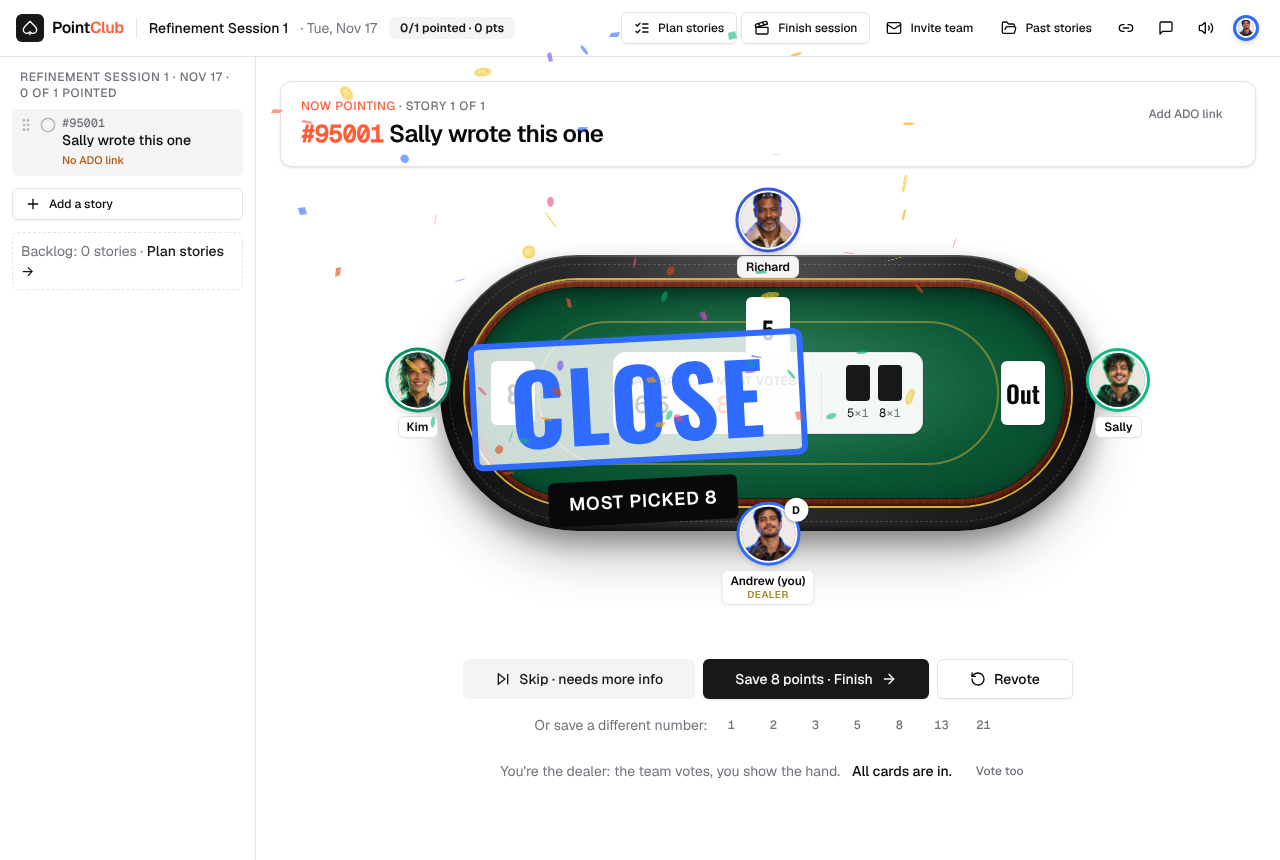
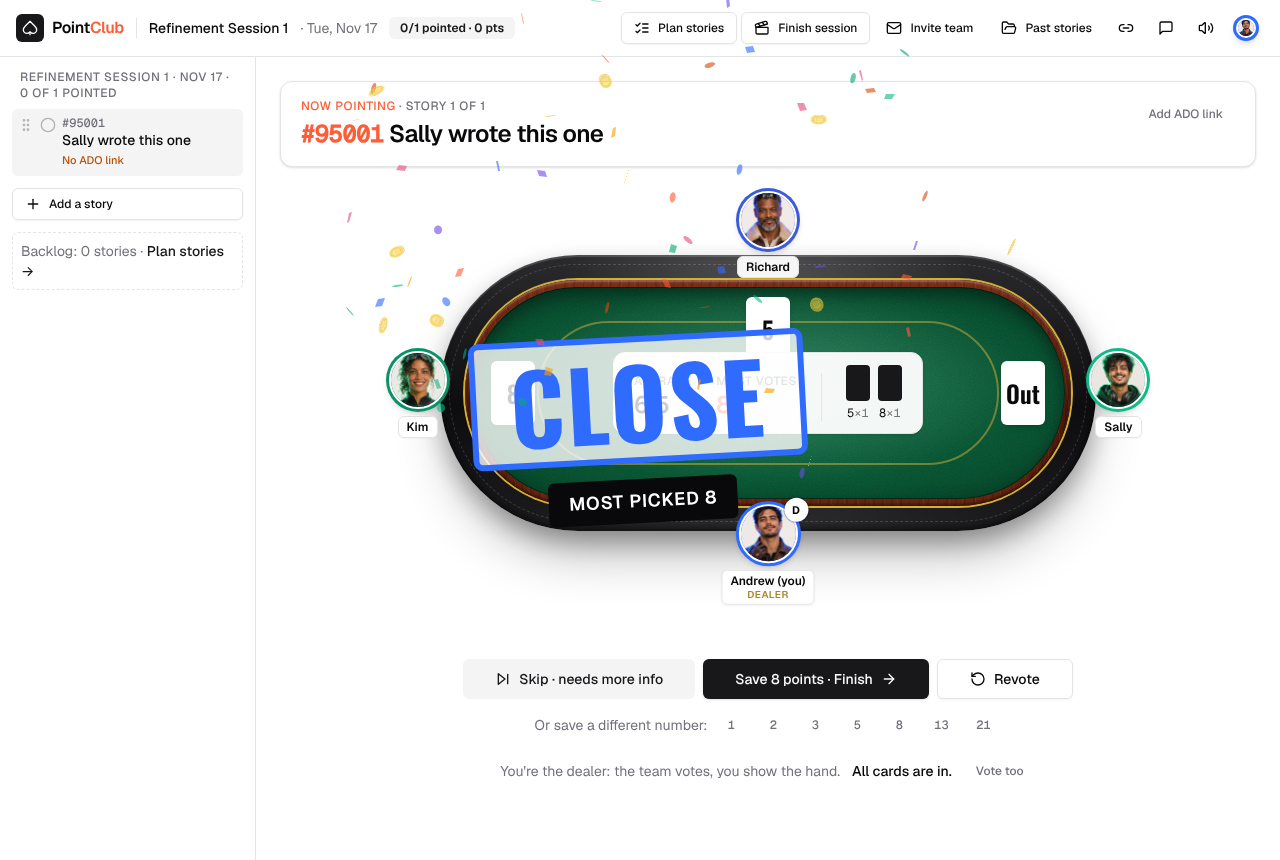
Walk-in music and Let's start; credits music ends with the credits
- Upbeat music while people arrive (stops after 60 seconds at most); the dealer clicks Let's start
  to fade it out on every screen and open the first story; cards appear after the start
- Each new refinement session starts with walk-in music again
- Credits music fades out as the 22-second credits finish

Claude-Session: https://claude.ai/code/session_01EANrJrMtc4n72hiZrseqCf

diff --git a/src/screens/Theater.tsx b/src/screens/Theater.tsx
@@ -19,7 +19,7 @@ import { SortableList } from '@/components/SortableList'
 import { NewSprint } from './NewSprint'
 import { Credits } from './Credits'
 import { CAST, castById } from '@/lib/cast'
-import { setVoicesEnabled, voice, voicesEnabled, votingMusic } from '@/lib/voice'
+import { resetWalkIn, setVoicesEnabled, voice, voicesEnabled, votingMusic, walkInMusic } from '@/lib/voice'
 import { blockbusterBurst, clearFx, sparkleBurst } from '@/lib/fx'
 import { isMuted, setMuted, sfx } from '@/lib/sounds'
 import { cn, sessionDate, sessionIso, sessionName } from '@/lib/utils'
@@ -62,7 +62,12 @@ export function Theater({ api, openVault, openPlanner, onLobby }: { api: RoomApi
   const voters = here.filter((m) => room?.hostVotes || m.id !== room?.hostId)
   const allIn = voters.length > 0 && voters.every((m) => roundVotes.some((v) => v.memberId === m.id))
   // Lounge music while people are voting; it fades out once every card is in or the hand is shown.
-  const votingNow = !!current && !current.points && !current.skipped && !room?.revealed && !allIn && me?.status === 'here'
+  // Before the dealer clicks "Let's start": walk-in music while people arrive (a session with points has begun).
+  const begun = !!activeSprint?.begunAt || lineup.some((s) => s.points)
+  useEffect(() => { resetWalkIn() }, [activeSprint?.id])
+  useEffect(() => { walkInMusic(!begun && me?.status === 'here') }, [begun, me?.status, activeSprint?.id])
+  useEffect(() => () => walkInMusic(false), [])
+  const votingNow = begun && !!current && !current.points && !current.skipped && !room?.revealed && !allIn && me?.status === 'here'
   useEffect(() => { votingMusic(votingNow) }, [votingNow])
   useEffect(() => () => votingMusic(false), [])
   const away = members.filter((m) => m.status === 'away')
@@ -224,7 +229,7 @@ export function Theater({ api, openVault, openPlanner, onLobby }: { api: RoomApi
             <Button variant="ghost" size="sm" onClick={openVault} title="Past stories (every session's stories and votes)"><FolderOpen /><span className="hidden lg:inline">Past stories</span></Button>
             <IconBtn tip={copied ? 'Copied!' : 'Copy room link'} onClick={copyLink}>{copied ? <Check /> : <Link2 />}</IconBtn>
             <IconBtn tip={voices ? 'Turn voice lines off' : 'Turn voice lines on'} onClick={() => { setVoicesEnabled(!voices); setVoices(!voices) }}>{voices ? <MessageSquare /> : <MessageSquareOff />}</IconBtn>
-            <IconBtn tip={muted ? 'Unmute' : 'Mute'} onClick={() => { setMuted(!muted); setMute(!muted); votingMusic(muted ? votingNow : false) }}>{muted ? <VolumeX /> : <Volume2 />}</IconBtn>
+            <IconBtn tip={muted ? 'Unmute' : 'Mute'} onClick={() => { setMuted(!muted); setMute(!muted); votingMusic(muted ? votingNow : false); walkInMusic(muted ? !begun : false) }}>{muted ? <VolumeX /> : <Volume2 />}</IconBtn>
             <IconBtn tip="My seat (lobby)" onClick={onLobby}>{me ? <Avatar character={me.character} name={me.name} size={26} /> : <UserRound />}</IconBtn>
           </div>
         </div>
@@ -286,6 +291,16 @@ export function Theater({ api, openVault, openPlanner, onLobby }: { api: RoomApi
 
         {/* Main */}
         <main className="flex-1 min-w-0 flex flex-col gap-4 p-6">
+          {!begun && (
+            <div className="flex items-center gap-4 rounded-xl border-2 border-primary/30 bg-primary/[0.06] px-5 py-4" data-testid="start-banner">
+              <div className="flex-1">
+                <div className="text-lg font-semibold">{activeSprint ? sessionName(activeSprint.name) : 'Refinement session'} · {sessionDate(activeSprint)}</div>
+                <div className="text-sm text-muted-foreground">{isHost ? 'Everyone here? Start when the team is seated.' : 'Grab a seat. The dealer will start in a moment.'}</div>
+              </div>
+              {isHost ? <Button size="lg" onClick={() => { walkInMusic(false); actions.beginSession() }} data-testid="lets-start">Let's start <ArrowRight /></Button>
+                : <span className="text-sm font-medium text-muted-foreground">Waiting for the dealer to start</span>}
+            </div>
+          )}
           <Card>
             <CardContent className="px-5 py-4 flex items-start gap-4">
               {current ? <>
@@ -364,7 +379,7 @@ export function Theater({ api, openVault, openPlanner, onLobby }: { api: RoomApi
               {isHost && nextUnpointed && <Button size="sm" onClick={() => actions.selectStory(nextUnpointed.id)}>Next story <ArrowRight /></Button>}
             </div>
           )}
-          {current && !current.points && !current.skipped && (
+          {begun && current && !current.points && !current.skipped && (
             <div className="flex flex-col items-center gap-3">
               {isHost ? (
                 <div className="flex flex-wrap gap-2 justify-center items-center">
@@ -399,7 +414,7 @@ export function Theater({ api, openVault, openPlanner, onLobby }: { api: RoomApi
           )}
 
           {/* Hand */}
-          {!current || current.points || current.skipped ? null : isDealer ? (
+          {!begun || !current || current.points || current.skipped ? null : isDealer ? (
             <div className="flex flex-wrap items-center justify-center gap-3 pb-4 text-sm text-muted-foreground" data-testid="dealer-panel">
               <span>You're the dealer: the team votes, you show the hand.</span>
               <span className="font-medium text-foreground">{allIn ? 'All cards are in.' : `${roundVotes.length} of ${voters.length} cards in. You can show the hand anytime; missing cards are left out.`}</span>

diff --git a/src/lib/voice.ts b/src/lib/voice.ts
@@ -52,16 +52,47 @@ export function votingMusic(on: boolean, volume = 0.18) {
 }
 
 /** Upbeat credits music. Returns a stop function that fades it out. Respects mute. */
-export function playMusic(name = 'credits', volume = 0.45): () => void {
+export function playMusic(name = 'credits', volume = 0.45, fadeAfterMs?: number): () => void {
   if (isMuted()) return () => {}
   const a = new Audio(`/sfx/sfx/${name}.mp3`)
+  ;(window as any).__creditsMusic = a
   a.volume = volume
   a.play().catch(() => {})
-  return () => {
-    const step = () => { if (a.volume > 0.05) { a.volume = Math.max(0, a.volume - 0.05); setTimeout(step, 60) } else { a.pause() } }
+  let fading = false
+  const stop = () => {
+    if (fading) return; fading = true
+    const step = () => { if (a.volume > 0.03) { a.volume = Math.max(0, a.volume - 0.03); setTimeout(step, 60) } else { a.pause() } }
     step()
   }
+  const t = fadeAfterMs ? setTimeout(stop, fadeAfterMs) : null
+  return () => { if (t) clearTimeout(t); stop() }
 }
+
+/** Upbeat walk-in music while people arrive, before the dealer clicks Let's start. Plays at most 60 seconds. */
+let walkIn: HTMLAudioElement | null = null
+let walkFade: ReturnType<typeof setInterval> | null = null
+let walkCap: ReturnType<typeof setTimeout> | null = null
+let walkDone = false // after the 60-second cap, stay quiet until the next session
+export function walkInMusic(on: boolean, volume = 0.3) {
+  if (on && (isMuted() || walkDone)) on = false
+  if (on && !walkIn) { walkIn = new Audio('/sfx/sfx/credits.mp3'); walkIn.loop = true; walkIn.volume = 0; (window as any).__walkInMusic = walkIn }
+  if (!walkIn) return
+  const a = walkIn
+  if (walkFade) clearInterval(walkFade)
+  if (on && a.paused) {
+    a.play().catch(() => {})
+    if (walkCap) clearTimeout(walkCap)
+    walkCap = setTimeout(() => { walkDone = true; walkInMusic(false) }, 60_000)
+  }
+  if (!on && walkCap) { clearTimeout(walkCap); walkCap = null }
+  walkFade = setInterval(() => {
+    const target = on ? volume : 0
+    a.volume = Math.abs(target - a.volume) < 0.02 ? target : Math.max(0, Math.min(1, a.volume + (target > a.volume ? 0.02 : -0.02)))
+    if (a.volume === target) { if (walkFade) clearInterval(walkFade); walkFade = null; if (!on) a.pause() }
+  }, 60)
+}
+/** A new session (next week) gets walk-in music again. */
+export function resetWalkIn() { walkDone = false }
 
 export const voice = {
   /** A short sound effect clip (chips, chaching, alarm, boom). */

diff --git a/src/lib/useRoom.ts b/src/lib/useRoom.ts
@@ -275,7 +275,14 @@ export function useRoom(roomId: string) {
       const missing = stories.filter((s) => !s.url)
       if (missing.length) await db.upsertStories(missing.map((s) => ({ ...s, url: buildAdoUrl(adoPattern, s.number) })))
     },
-    async renameSprint(p: Partial<Pick<Sprint, 'name' | 'title' | 'meetingDate'>>) { if (activeSprint) await db.upsertSprint({ ...activeSprint, ...p }) },
+    /** Dealer: "Let's start". Ends the walk-in music for everyone and opens the first story waiting to be pointed. */
+    async beginSession() {
+      if (!activeSprint) return
+      await db.upsertSprint({ ...activeSprint, begunAt: Date.now() })
+      const first = lineup.find(isOpen)
+      if (first && (!current || current.sprintId !== activeSprint.id)) await patchRoom({ currentStoryId: first.id, revealed: false, round: first.rounds })
+    },
+    async renameSprint(p: Partial<Pick<Sprint, 'name' | 'title' | 'meetingDate' | 'begunAt'>>) { if (activeSprint) await db.upsertSprint({ ...activeSprint, ...p }) },
     /** Finish this session. Unpointed stories go back to the top of the backlog, or into the Next session list. */
     async closeAndStartNext(name: string, title: string, carryTo: 'backlog' | 'next' = 'backlog', meetingDate: string | null = null) {
       if (!room) return

diff --git a/api/_core.ts b/api/_core.ts
@@ -10,7 +10,7 @@ const b = (name: string): Col => ({ name, type: 'bigint' })
 const TABLES = {
   rooms: [t('id'), t('name'), t('host_id'), t('active_sprint_id'), t('current_story_id'), { name: 'revealed', type: 'bool' }, i('round'), t('ado_pattern'), i('next_count'), { name: 'host_votes', type: 'bool' }],
   members: [t('id'), t('room_id'), t('name'), t('character'), t('status'), b('last_seen')],
-  sprints: [t('id'), t('room_id'), t('name'), t('title'), b('started_at'), b('closed_at'), t('meeting_date')],
+  sprints: [t('id'), t('room_id'), t('name'), t('title'), b('started_at'), b('closed_at'), t('meeting_date'), b('begun_at')],
   stories: [t('id'), t('room_id'), t('sprint_id'), t('number'), t('title'), t('url'), t('points'), t('outcome'), i('rounds'), i('order'), { name: 'skipped', type: 'bool' }, t('note')],
   votes: [t('id'), t('room_id'), t('story_id'), t('member_id'), i('round'), t('value')],
 } satisfies Record<string, Col[]>

diff --git a/src/screens/Credits.tsx b/src/screens/Credits.tsx
@@ -9,7 +9,7 @@ import type { RoomApi } from '../lib/useRoom'
 
 export function Credits({ api, sprint, onClose }: { api: RoomApi; sprint: Sprint; onClose: () => void }) {
   const st = sprintStats(sprint, api.stories, api.votes, api.members)
-  useEffect(() => { sfx.fanfare(); return playMusic('credits') }, []) // upbeat music while the credits roll; fades out on close
+  useEffect(() => { sfx.fanfare(); return playMusic('credits', 0.45, 20_000) }, []) // upbeat music while the credits roll; fades as they finish (22 s) or on close
   const lines: [string, string][] = [
     ['Total points', String(st.total)],
     ['Stories pointed', `${st.pointed.length}`],

diff --git a/src/lib/types.ts b/src/lib/types.ts
@@ -20,6 +20,8 @@ export interface Sprint {
   closedAt: number | null
   /** The meeting's calendar date, e.g. "2026-11-24" (no time, so it never shifts between time zones). */
   meetingDate?: string | null
+  /** When the dealer clicked "Let's start" (before that, walk-in music plays). */
+  begunAt?: number | null
 }
 export type Outcome = 'blockbuster' | 'critics' | 'plottwist' | 'none'
 export interface Story {
